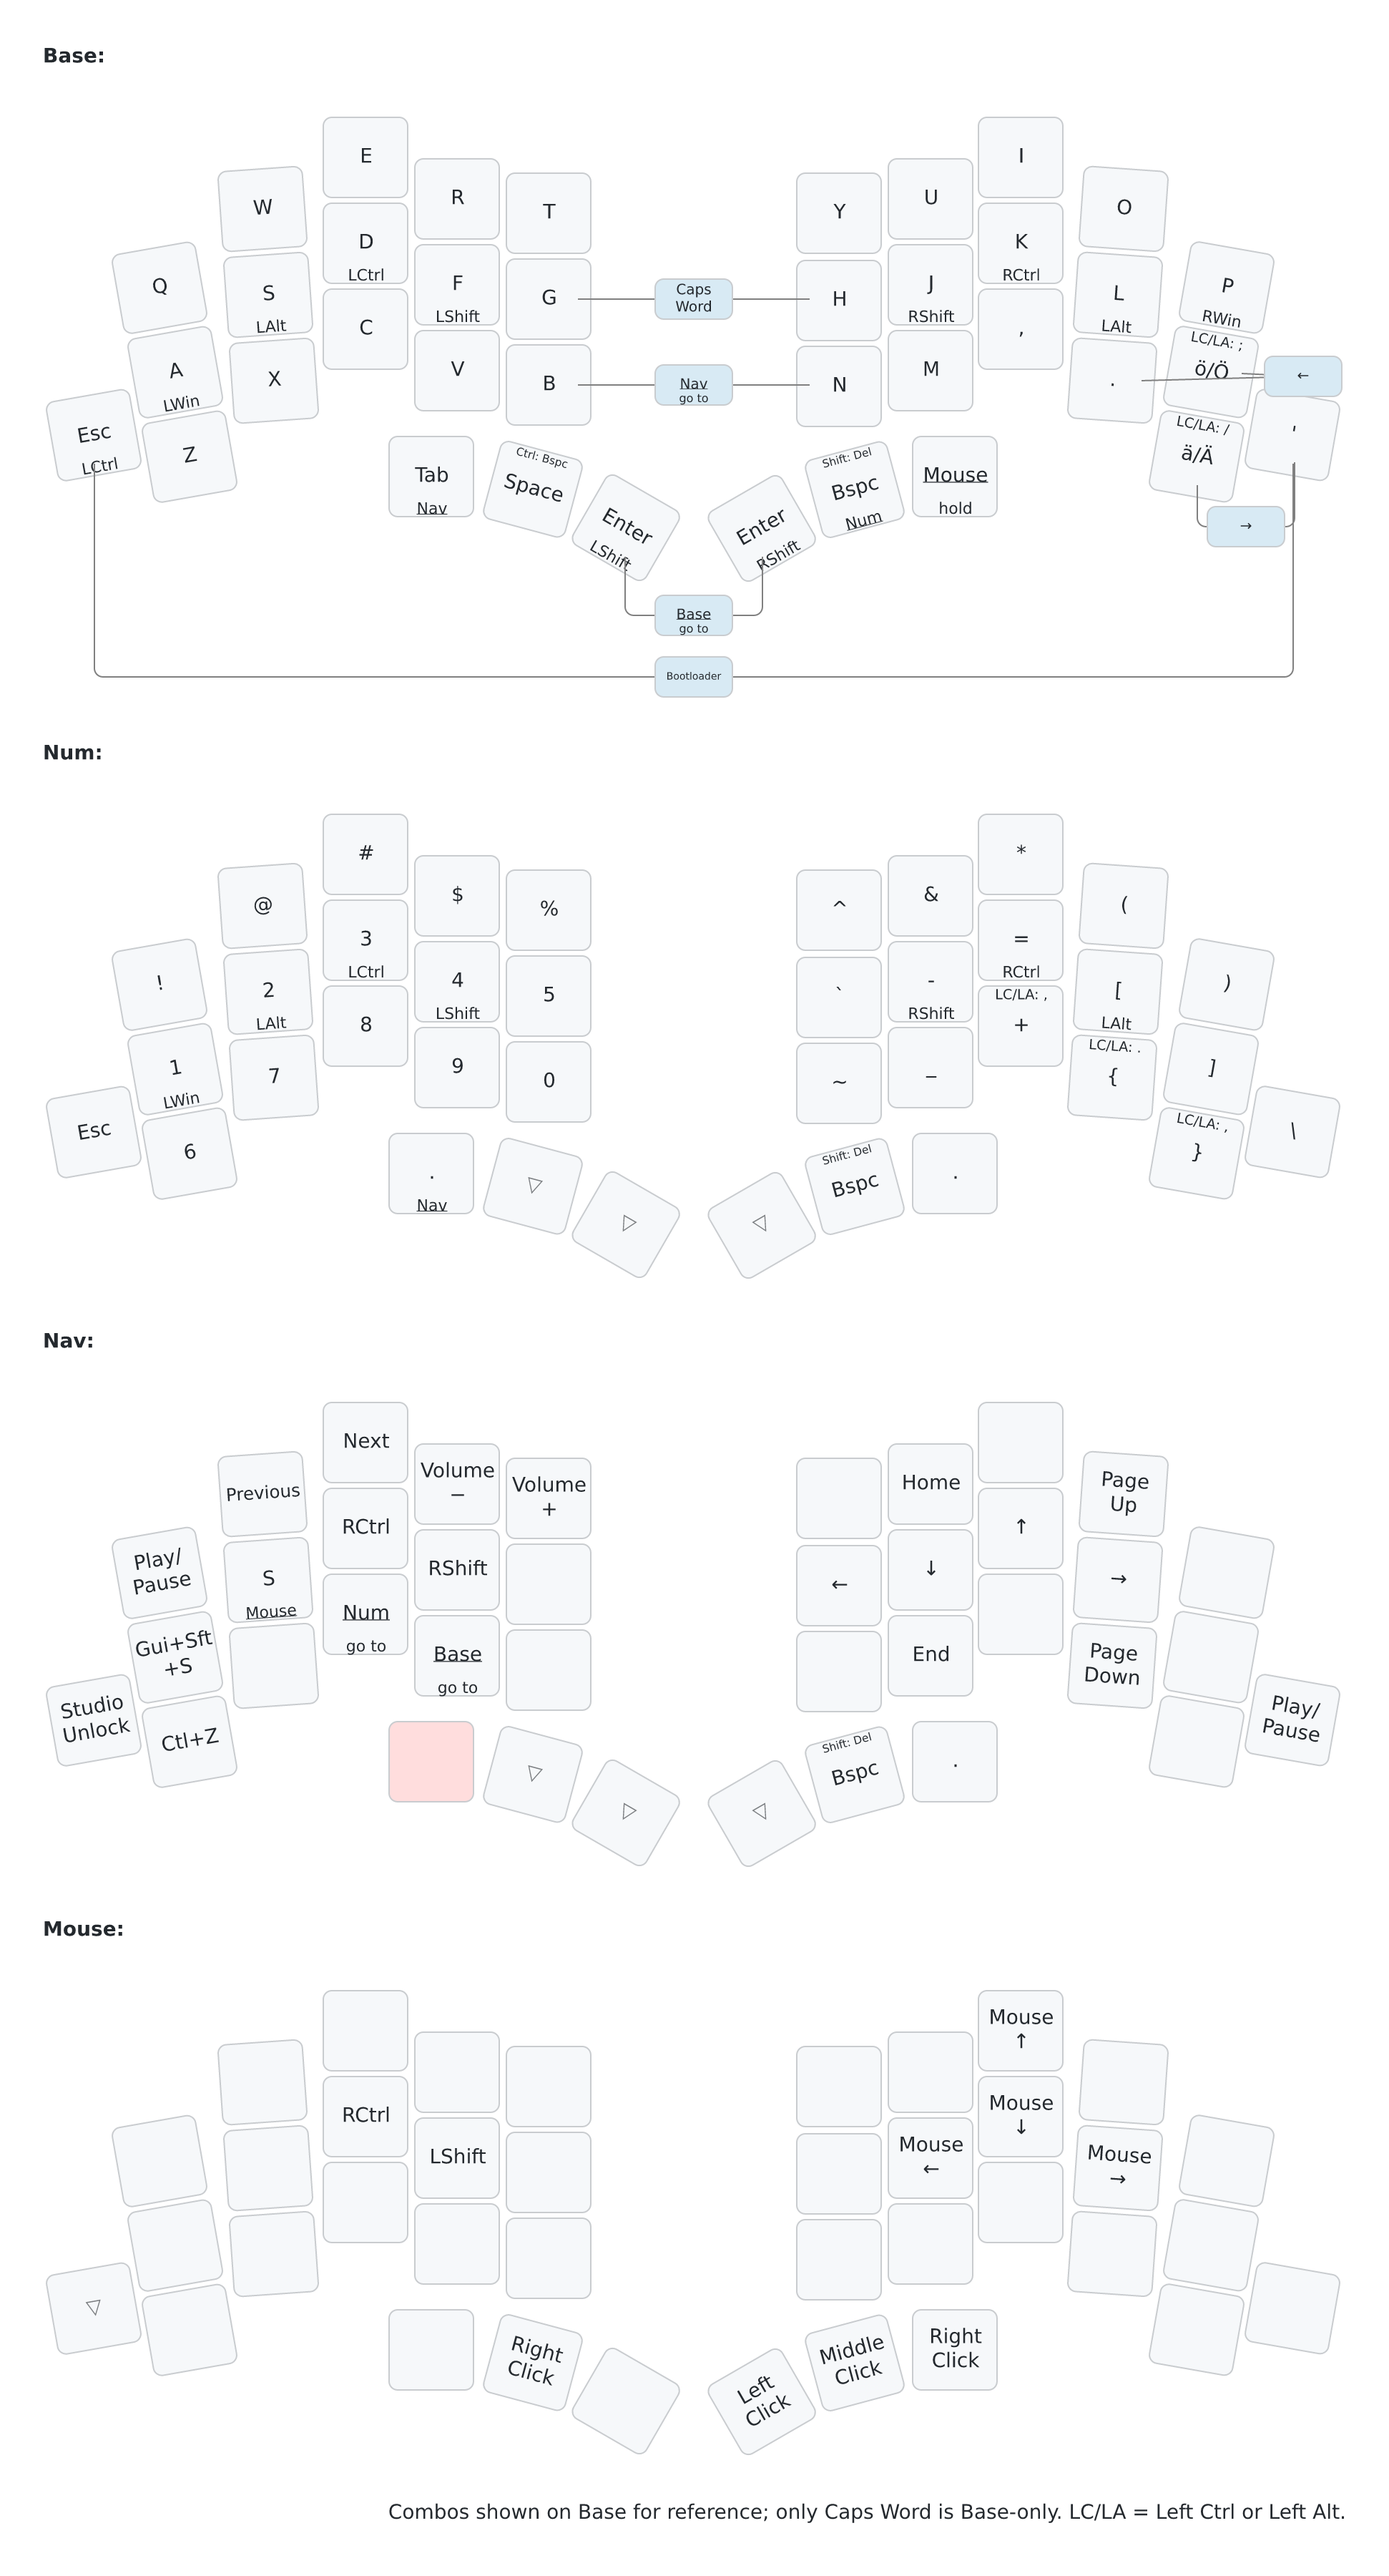
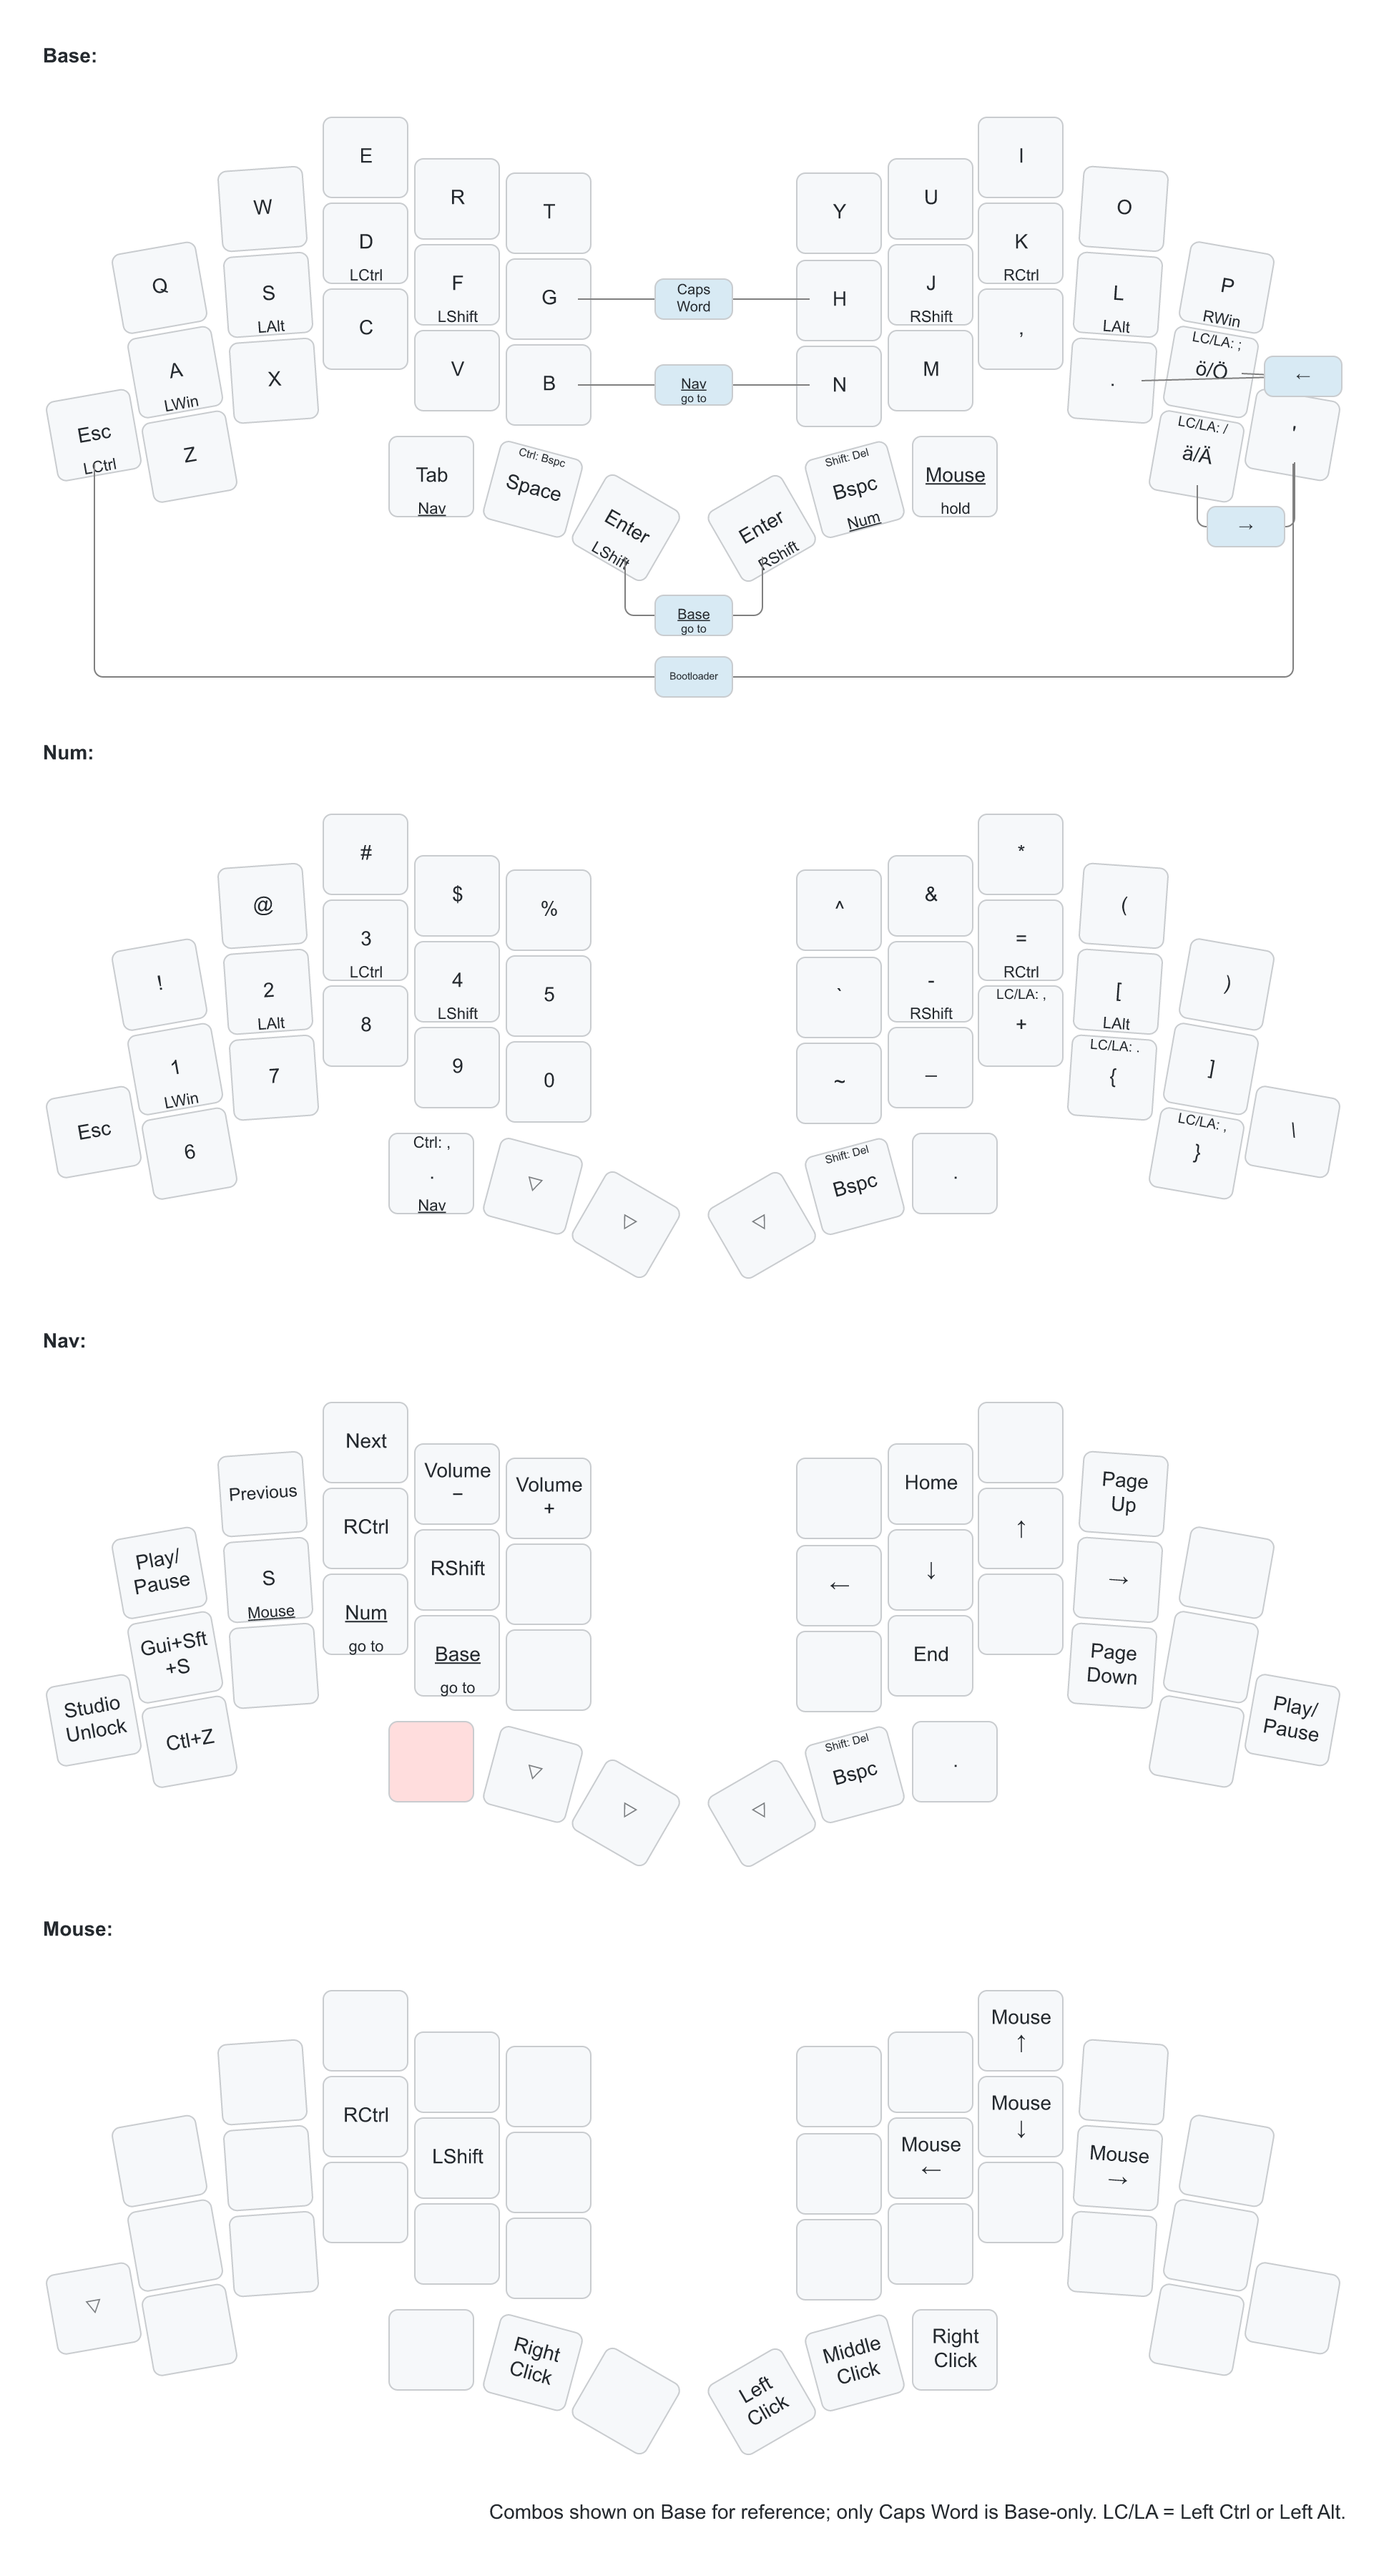
Add Ctrl-comma tap to the Num Dot/Nav thumb

diff --git a/README.md b/README.md
@@ -58,7 +58,8 @@ Edit `config/totem.keymap`. The shield default includes that same file, so there
 - Other home-row hold-taps: balanced, 130 ms prior idle, 280 ms tapping term, 175 ms quick tap.
 - Opposite-hand and thumb positional triggers are retained, including the corrected Q position.
 - Outer right thumb holds Mouse momentarily. Right-click is also available on the left Space thumb while Mouse is active.
-- Existing modifier morphs, combos, Shift/Enter thumbs, Tab/Nav, and Backspace/Num behavior are preserved.
+- On Num, the left Dot/Nav thumb taps `.` normally or `,` with either Ctrl held; Ctrl is suppressed for that comma. Holding still activates Nav (tap-preferred, 200 ms), including while Ctrl is held. Space and Enter remain on the other left thumbs.
+- Other modifier morphs, combos, Shift/Enter thumbs, Tab/Nav, and Backspace/Num behavior are preserved.
 - Unicode ä/ö still uses WinCompose with Right Alt as the compose key. Keep the host's US layout and existing WinCompose setup.
 
 The layer constants now agree with the actual layer order. The B+N combo is named `ToNav` to reflect its existing action; its destination has not changed.
